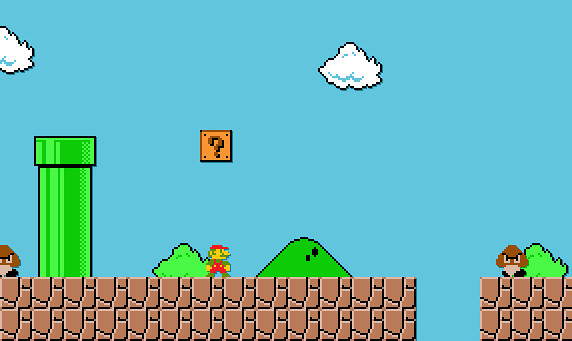
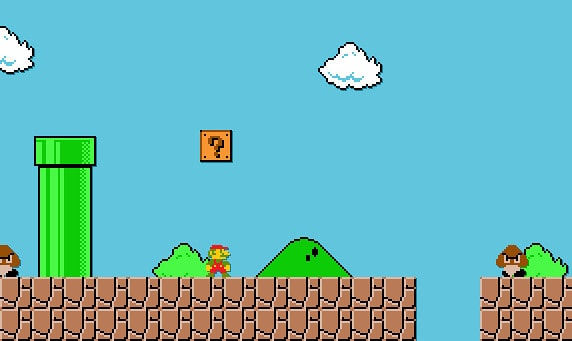
compressedthe rest of the images

diff --git a/influence.html b/influence.html
@@ -37,7 +37,7 @@
        adventure story with these pop ups and from there I knew I wanted to learn more.
       </p>
 
-      <img src=Assets/Popup.png>
+      <img src=Assets/Popup-min.png>
 
       <div class="main_image">
         <img src="Assets/Programming.jpeg" alt="Computer with code">
